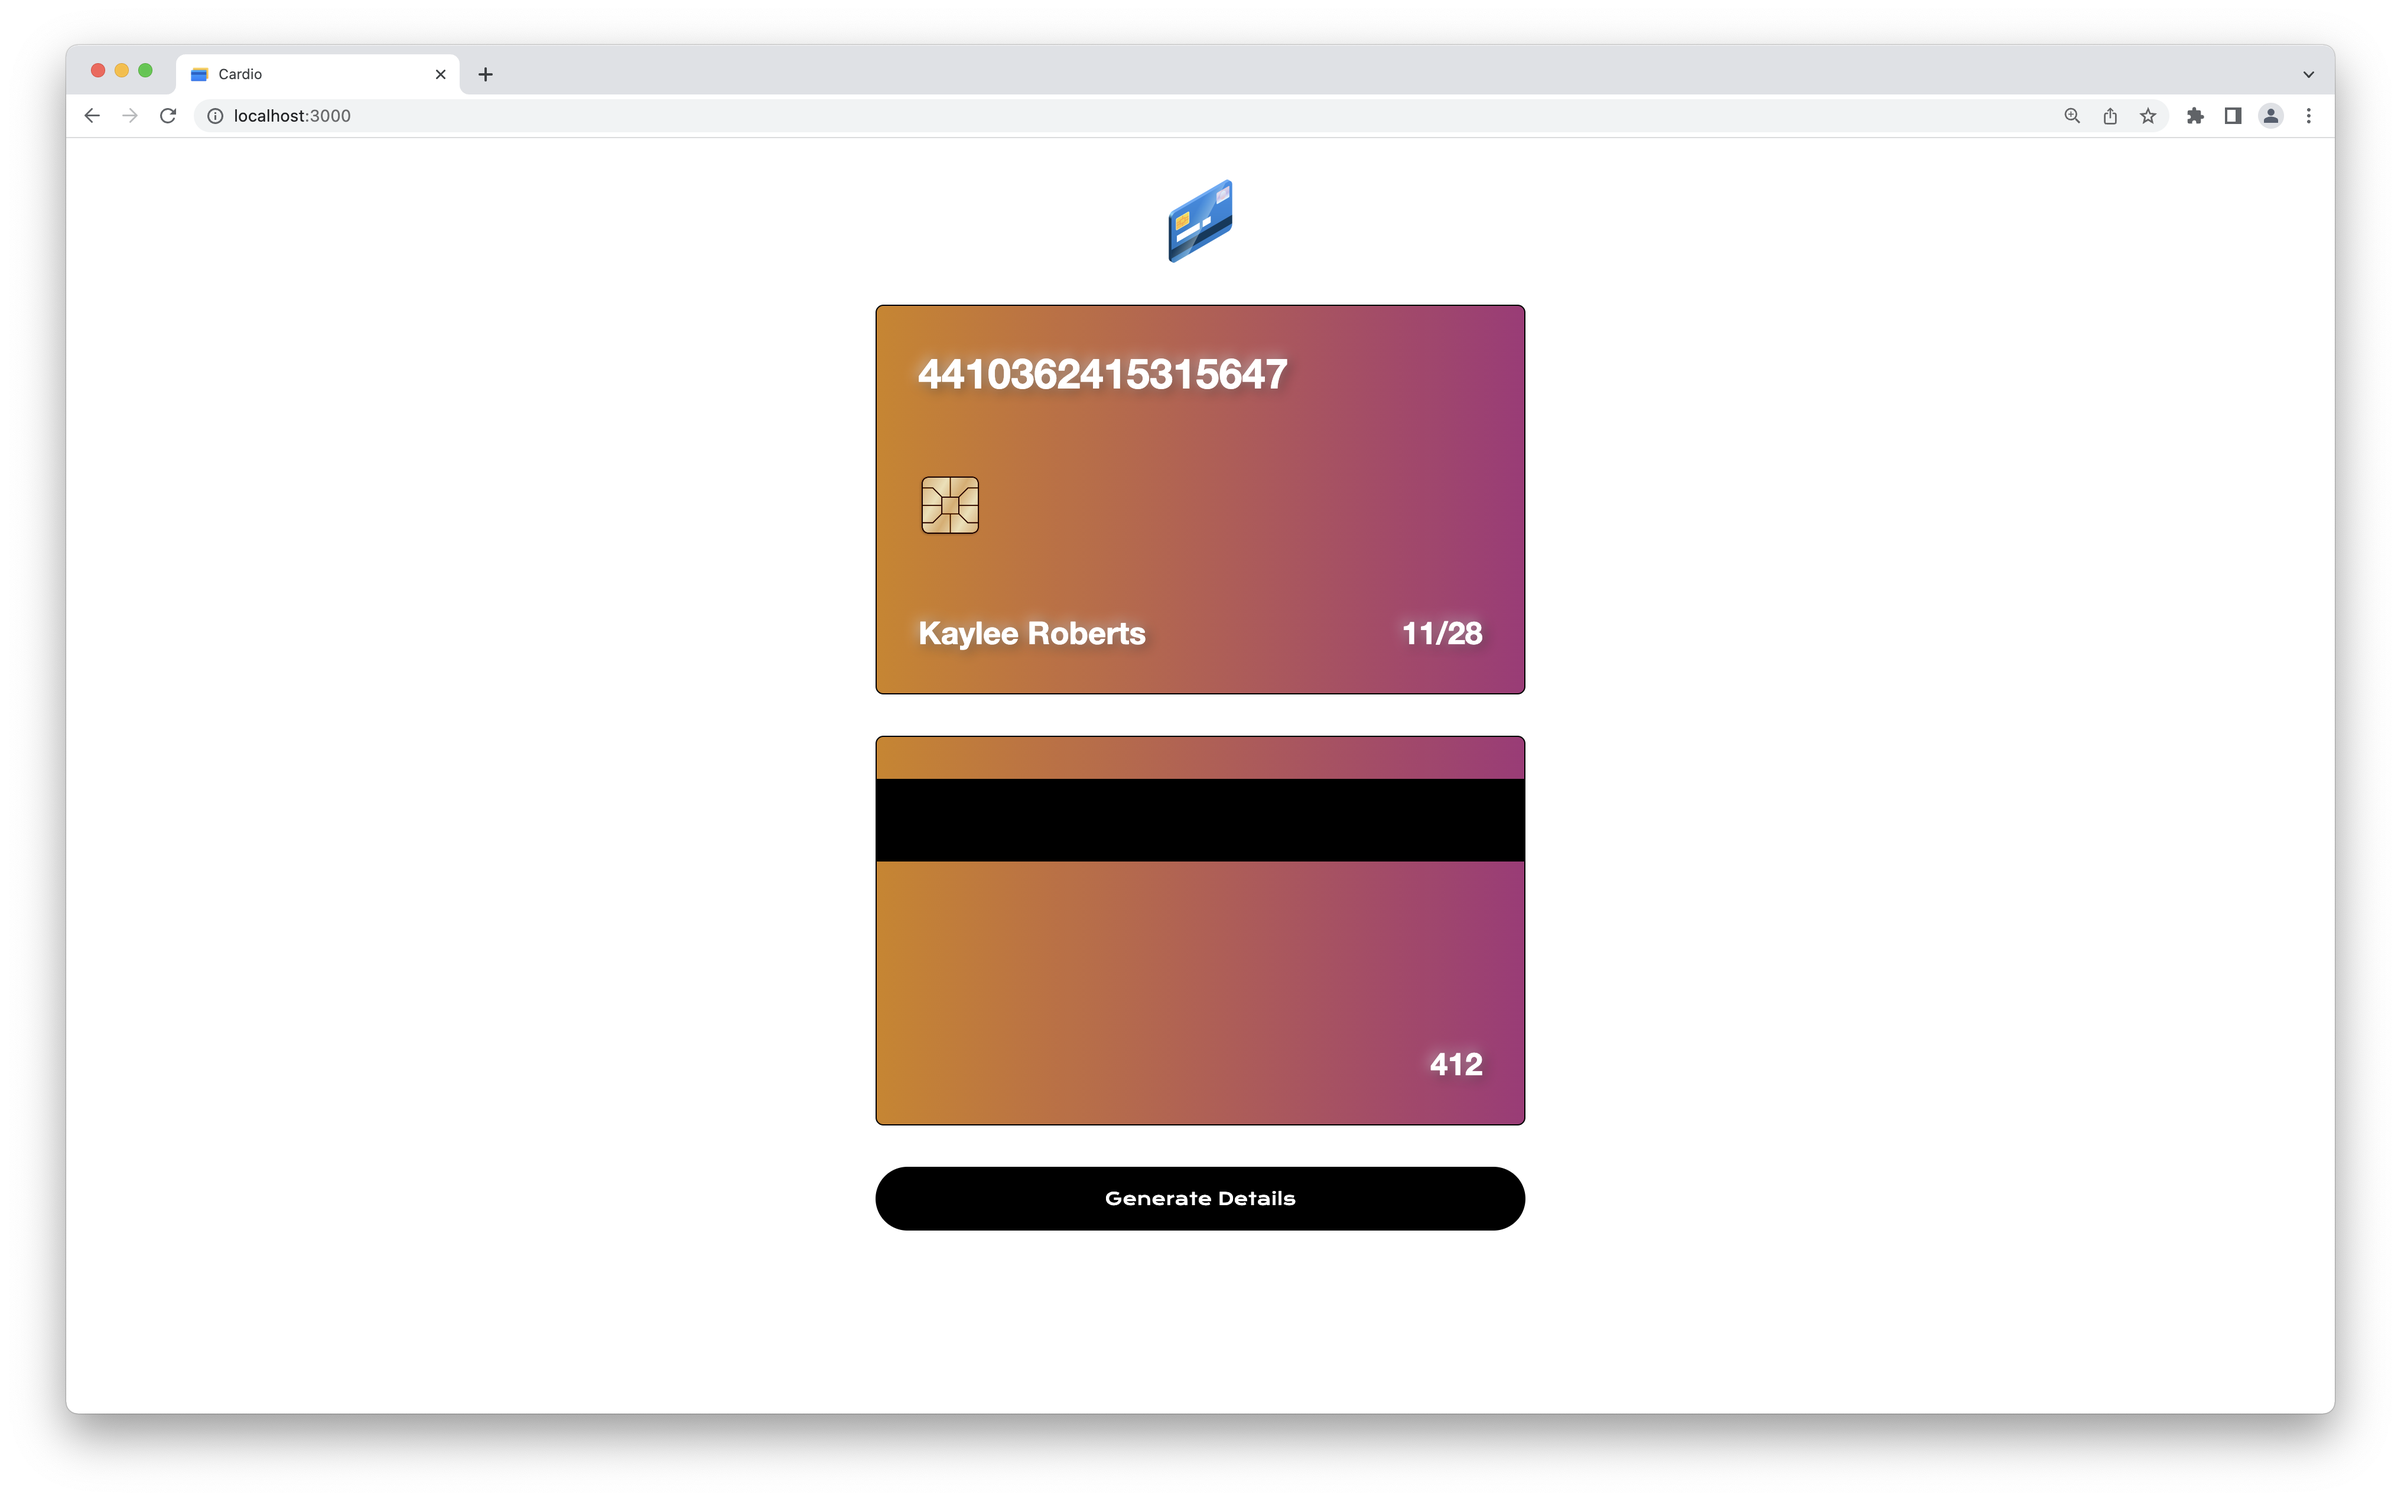
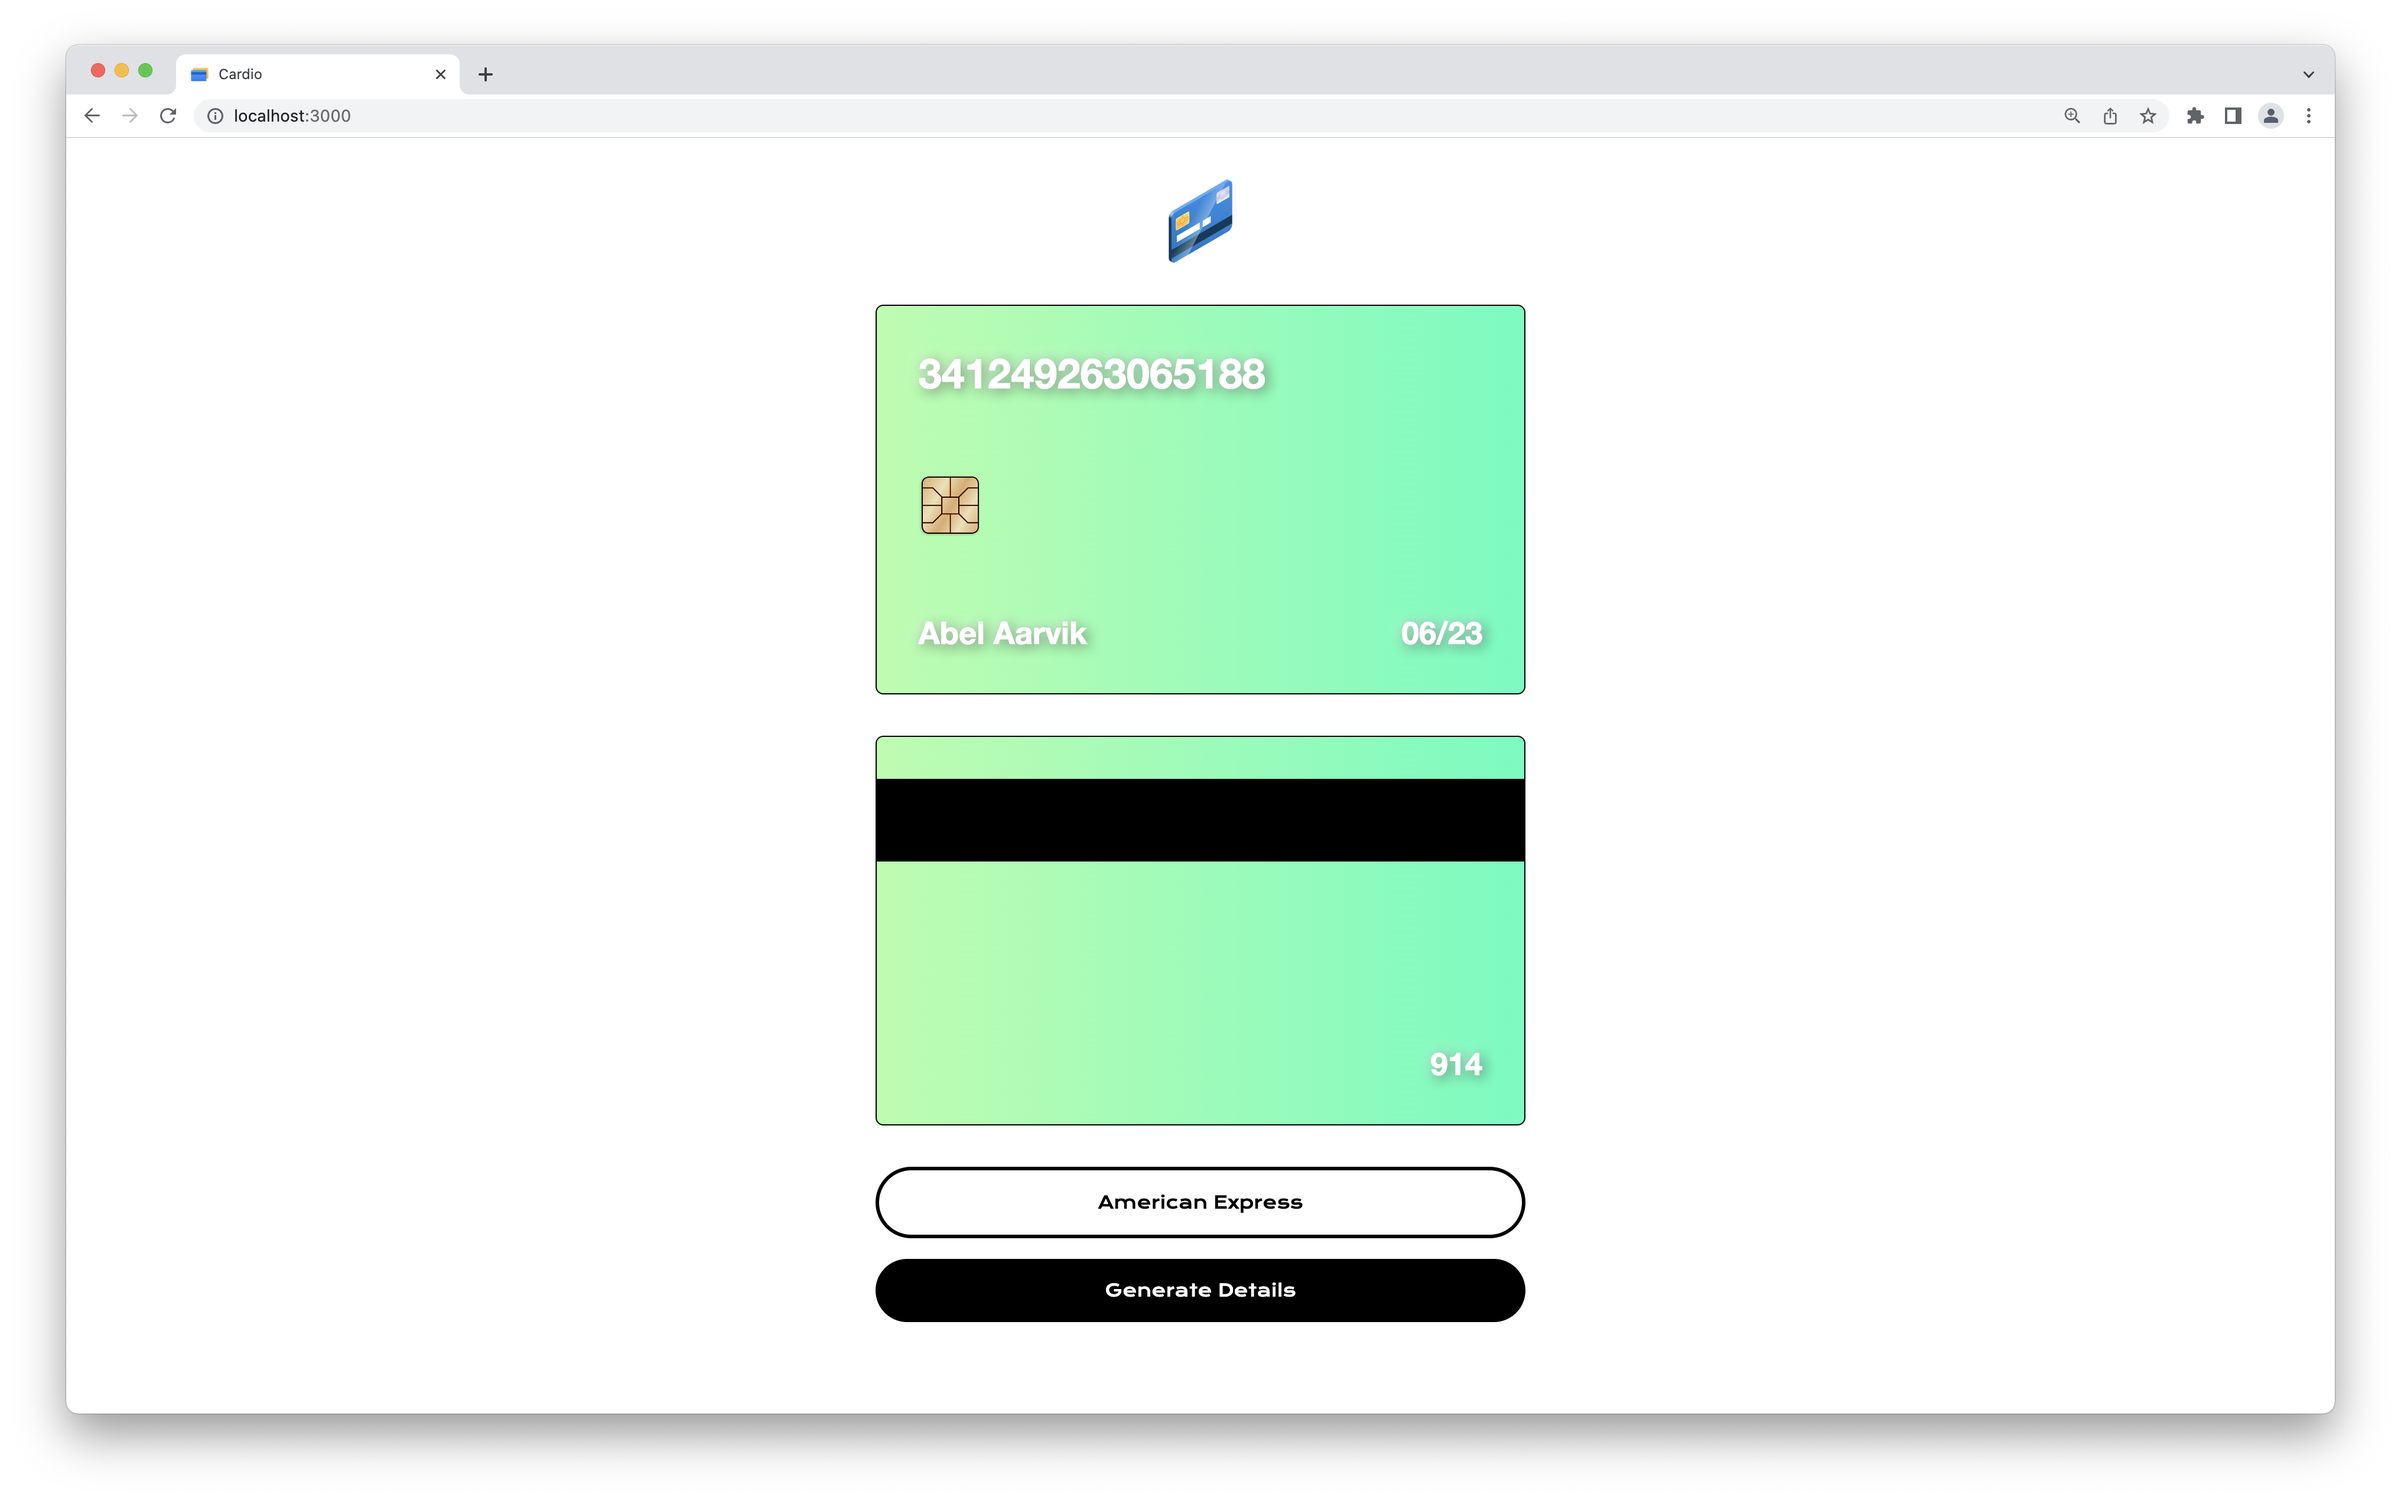
Add Card Issuer Selector With Validation

Changed region(s): [[0.3438, 0.1865, 0.6562, 0.5283], [0.3438, 0.5594, 0.6562, 0.9013]]

diff --git a/src/views/Home.js b/src/views/Home.js
@@ -25,10 +25,16 @@ const Home = (props) => {
 	const [expiration, setExpiration] = useState("")
 	const [gradient, setGradient] = useState("linear-gradient(to right, #fe8c00 , #f83600)")
 
+	const [cardValue, setCardValue] = useState("")
 	const [loading, setLoading] = useState([false, false])
+	const [error, setError] = useState("")
 
 	function generateDetails() {
-		console.log("Generating details...")
+		if (cardValue === "") {
+			setError("Please select card type!")
+			return
+		}
+
 		setLoading([true, true])
 		
 		// Generate a random name
@@ -44,7 +50,7 @@ const Home = (props) => {
 		const options = {
 			method: 'GET',
 			url: 'https://payment-card-numbers-generator.p.rapidapi.com/generate',
-			params: {quantity: '1', scheme: 'visa'},
+			params: {quantity: '1', scheme: cardValue},
 			headers: {
 				'X-RapidAPI-Key': secrets.cardKey,
 				'X-RapidAPI-Host': 'payment-card-numbers-generator.p.rapidapi.com'
@@ -80,12 +86,28 @@ const Home = (props) => {
 		return new Date(start.getTime() + Math.random() * (end.getTime() - start.getTime()));
 	}
 
+	const handleChange = (event) => {
+		// This is okay because the card type is the only input here
+		setCardValue(event.target.value)
+		setError("")
+	}
+
 	return (
 		<>
 			<div className='padded-centered'>
 				<Card name={ name } number={ number } expiration={ expiration } security={ security } gradient={ gradient } loading={ loading }></Card>
 				
-				<button onClick={ generateDetails }>{ (loading[0] || loading[1]) ? "Generating..." : "Generate Details" }</button>
+				<select name="scheme" id="scheme" className='margin-bottom-half' style={{ border: (error === "") ? "3px solid black" : "3px solid #ff6b6b" }} value={ cardValue } onChange={ handleChange }>
+					<option value="">Press to Choose Card Type...</option>
+					<option value="visa">Visa</option>
+					<option value="mastercard">MasterCard</option>
+					<option value="amex">American Express</option>
+					<option value="discover">Discover</option>
+				</select>
+
+				<button className='margin-bottom-half' onClick={ generateDetails }>{ (loading[0] || loading[1]) ? "Generating..." : "Generate Details" }</button>
+
+				{ (error !== "") && <p className='error-p' style={{ color: "#ff6b6b" }}>{ error }</p> }
 			</div>
 		</>
 	)

diff --git a/src/index.css b/src/index.css
@@ -108,9 +108,51 @@ button {
 	cursor: pointer;
 }
 
+select {
+	display: block;
+
+	width: 500px;
+	max-width: 100%;
+	margin: 0 auto;
+
+	padding: 16px 32px 16px 32px;
+
+	background-color: white;
+	border-radius: 500px;
+	border: 3px solid black;
+	outline: none;
+
+	font-family: 'Krona One', sans-serif;
+	text-align: center;
+	color: black;
+
+	cursor: pointer;
+}
+
 /* GENERAL */
+.error-p {
+	width: 500px;
+	max-width: 100%;
+	margin: 0 auto;
+
+	font-family: 'Krona One', sans-serif;
+}
+
 .margin-bottom-standard {
 	margin-bottom: 32px;
+}
+
+.margin-bottom-half {
+	margin-bottom: 16px;
+}
+
+select {
+	-moz-appearance: none;
+	-webkit-appearance: none;
+}
+
+select::-ms-expand {
+	display: none;
 }
 
 * {

diff --git a/src/components/Card.js b/src/components/Card.js
@@ -7,8 +7,6 @@ const Card = (props) => {
 	useEffect(() => {
         setDetails({ ...details, "name": props.name, "number": props.number, "security": props.security, "expiration": props.expiration })
 		setGradient(props.gradient)
-
-		console.log(props.loading)
     }, [props])
 
 	if (details.name && (!props.loading[0] && !props.loading[1])) {

diff --git a/README.md b/README.md
@@ -3,7 +3,9 @@
 </p>
 
 # Cardio
-This ReactJS application generates aesthetically pleasing credit cards with random names, numbers, and gradients using several public APIs. The credit card numbers are valid Visa credentials (although they won't work because they aren't connected to any accounts, and their security keys aren't known)!
+This ReactJS application generates aesthetically pleasing credit cards with random names, numbers, and gradients using several public APIs. The credit card numbers are all valid (although they won't work because they aren't connected to any accounts, and their security keys aren't known).
+
+Users may choose to generate either Visa, Discover, American Express, or MasterCard numbers. You will see an error message if you try to generate without an option selected!
 
 <p align="center">
   <img width="750px" src="resources/01.png">
@@ -18,4 +20,5 @@ Want to play around with this project? Download or clone, enter the directory, u
 
 ## Image credentials
 <a href="https://www.flaticon.com/free-icons/credit-card">Credit card icon (logo) created by Freepik - Flaticon.</a>
+
 <a href="https://www.flaticon.com/free-icons/credit-card">Credit card icon (favicon) created by creative_designer - Flaticon.</a>
